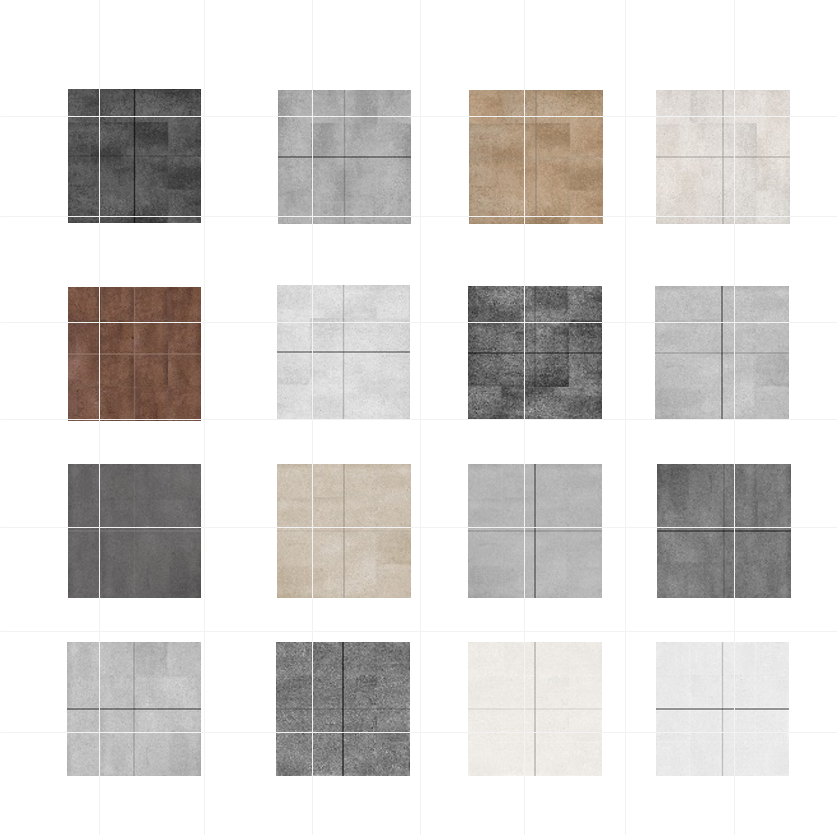
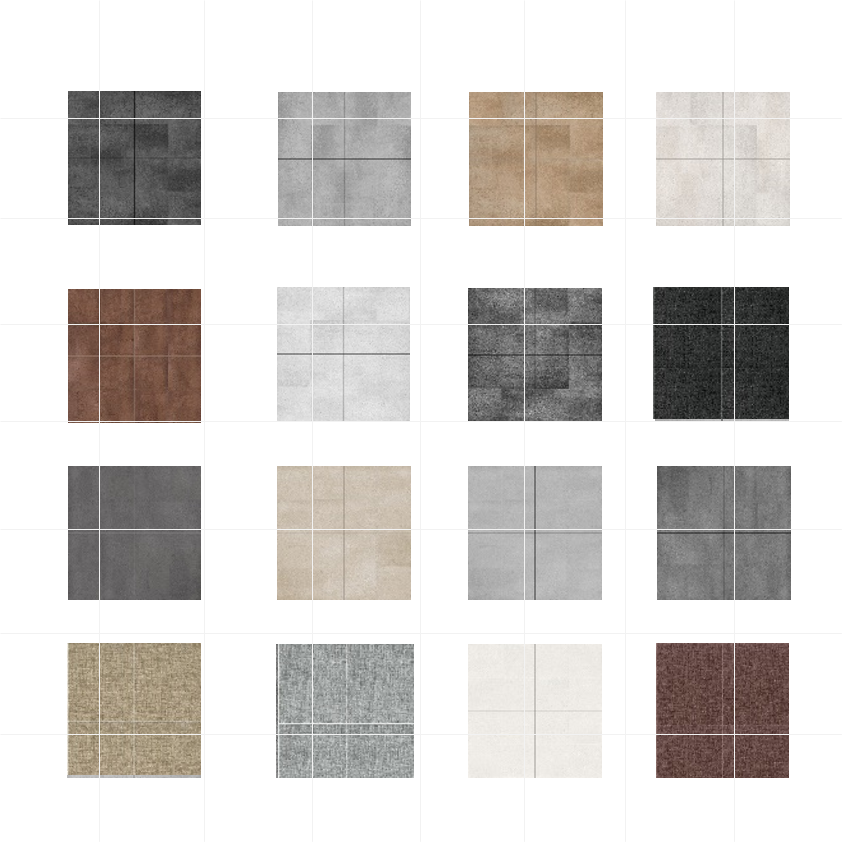
new product added

diff --git a/shop/neutraltilespack/index.html b/shop/neutraltilespack/index.html
@@ -295,7 +295,7 @@
                 <div class='col-sm-6'>
                     <div class='row align-items-center price'>
                         <p class='text-center w-100'>
-                             $3
+                             $5
                         </p>
                     </div>
                 </div>
@@ -355,22 +355,22 @@
         <div class="content">
           <hr>
 <p>Hi archifriend! Below we leave you this product specification:</p>
-<p>You will receive: <strong>15 jpg images with different kinds of tiles in neutral colors</strong>, that you can use for your post-productions and illustrations</p>
+<p>You will receive: <strong>+20 jpg images with different kinds of tiles in neutral colors</strong>, that you can use for your post-productions and illustrations</p>
 <p>With just a couple of clicks you will be able to:</p>
 <p>· <strong>Give the necessary level of realism</strong> to your projects according to the concept you are using</p>
 <p>· <strong>Create numerous styles in your projects environments</strong> from a variety of tiles</p>
-<p>· <strong>Save time</strong> working with 15 types of tiles with which you can quickly get combinations and contrasts with a single pack</p>
-<p><strong>File size</strong>: 3.4 MB</p>
+<p>· <strong>Save time</strong> working with +20 types of tiles with which you can quickly get combinations and contrasts with a single pack</p>
+<p><strong>File size</strong>: 5.5 MB</p>
 <p><strong>Format</strong>: JPG</p>
 <p><strong>Software compatibility</strong>: Every software that supports images like Adobe Photoshop, SketchUp&hellip;</p>
 <hr>
 <p>¡Hola archifriend! A continuación te dejamos todas las especificaciones de este producto:</p>
-<p>Recibirás en contenido: <strong>15 imágenes jpg</strong> con diferentes tipos de azulejos en colores neutros, que puedes utilizar para tus post-producciones e ilustraciones</p>
+<p>Recibirás en contenido: <strong>+20 imágenes jpg</strong> con diferentes tipos de azulejos en colores neutros, que puedes utilizar para tus post-producciones e ilustraciones</p>
 <p>Con solo un par de clicks vas a poder:</p>
 <p>· <strong>Darle el nivel de realismo</strong> necesario a tus proyectos de acuerdo al concepto que estés utilizando</p>
 <p>· <strong>Crear numerosos estilos</strong> en los ambientes de tus proyectos a partir de la variedad de azulejos</p>
-<p>· <strong>Ahorrar tu tiempo</strong> trabajando con 15 tipos de azulejos con los que podrás sacar combinaciones y contrastes rápidamente con un solo pack</p>
-<p><strong>Tamaño de archivo</strong>: 3.4 MB</p>
+<p>· <strong>Ahorrar tu tiempo</strong> trabajando con +20 tipos de azulejos con los que podrás sacar combinaciones y contrastes rápidamente con un solo pack</p>
+<p><strong>Tamaño de archivo</strong>: 5.5 MB</p>
 <p><strong>Formato</strong>: JPG</p>
 <p><strong>Compatibilidad de software</strong>: Cualquier software que admita imágenes como Adobe Photoshop, SketchUp&hellip;</p>
 
@@ -408,7 +408,7 @@
     "offers": [
       {
         "@type": "Offer",
-        "price": "3",
+        "price": "5",
         "priceCurrency": "USD",
         "itemCondition": "new",
         "availability": "in stock"

diff --git a/categories/jpg/index.html b/categories/jpg/index.html
@@ -362,7 +362,7 @@
             <div class="mb-3 post-meta">
             </div>
             <div>
-                <div><p class='font-weight-bold'>$3</p></div>
+                <div><p class='font-weight-bold'>$5</p></div>
                 
             </div>
         </div>

diff --git a/categories/textures/index.html b/categories/textures/index.html
@@ -362,7 +362,7 @@
             <div class="mb-3 post-meta">
             </div>
             <div>
-                <div><p class='font-weight-bold'>$3</p></div>
+                <div><p class='font-weight-bold'>$5</p></div>
                 
             </div>
         </div>

diff --git a/shop/page/2/index.html b/shop/page/2/index.html
@@ -614,7 +614,7 @@
             <div class="mb-3 post-meta">
             </div>
             <div>
-                <div><p class='font-weight-bold'>$3</p></div>
+                <div><p class='font-weight-bold'>$5</p></div>
                 
             </div>
         </div>

diff --git a/tags/architecture/page/2/index.html b/tags/architecture/page/2/index.html
@@ -362,7 +362,7 @@
             <div class="mb-3 post-meta">
             </div>
             <div>
-                <div><p class='font-weight-bold'>$3</p></div>
+                <div><p class='font-weight-bold'>$5</p></div>
                 
             </div>
         </div>

diff --git a/tags/assets/index.html b/tags/assets/index.html
@@ -468,7 +468,7 @@
             <div class="mb-3 post-meta">
             </div>
             <div>
-                <div><p class='font-weight-bold'>$3</p></div>
+                <div><p class='font-weight-bold'>$5</p></div>
                 
             </div>
         </div>

diff --git a/tags/jpg/index.html b/tags/jpg/index.html
@@ -362,7 +362,7 @@
             <div class="mb-3 post-meta">
             </div>
             <div>
-                <div><p class='font-weight-bold'>$3</p></div>
+                <div><p class='font-weight-bold'>$5</p></div>
                 
             </div>
         </div>

diff --git a/tags/textures/index.html b/tags/textures/index.html
@@ -362,7 +362,7 @@
             <div class="mb-3 post-meta">
             </div>
             <div>
-                <div><p class='font-weight-bold'>$3</p></div>
+                <div><p class='font-weight-bold'>$5</p></div>
                 
             </div>
         </div>
